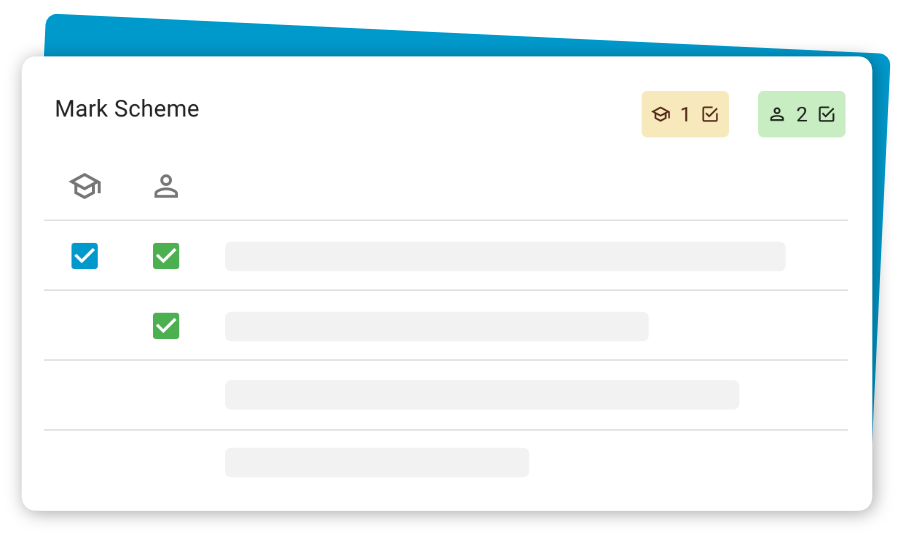
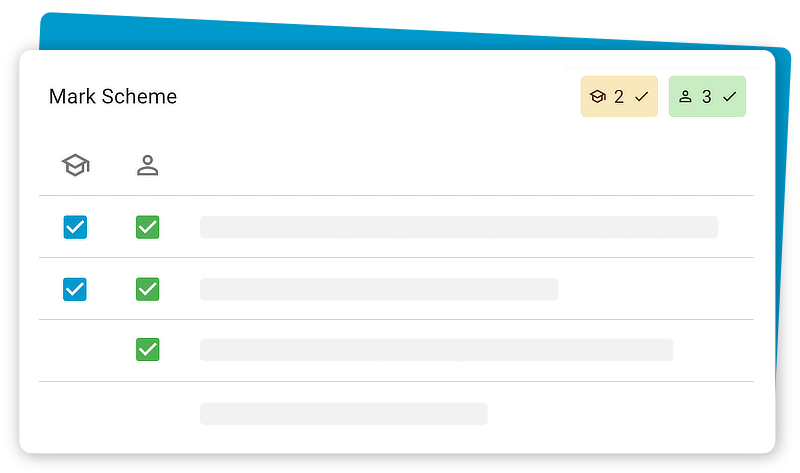
Tweaks + bugs

diff --git a/pages/report/_report.vue b/pages/report/_report.vue
@@ -127,84 +127,85 @@
         </v-toolbar>
         <v-container>
           <v-row id="div2">
-            <v-col cols="12" class="d-flex align-center">
-              <v-tooltip bottom>
-                <template #activator="{ on }">
-                  <v-btn icon @click="next(-1)" v-on="on">
-                    <v-icon>{{ $icons.mdiArrowLeft }}</v-icon>
-                  </v-btn>
-                </template>
-                <span>Previous</span>
-              </v-tooltip>
-              <v-tooltip bottom>
-                <template #activator="{ on }">
-                  <v-btn icon @click="next(1)" v-on="on">
-                    <v-icon>{{ $icons.mdiArrowRight }}</v-icon>
-                  </v-btn>
-                </template>
-                <span>Next</span>
-              </v-tooltip>
-              <v-tooltip v-if="marking" bottom>
-                <template #activator="{ on }">
-                  <v-btn
-                    icon
-                    class="ml-2"
-                    :color="response.flagged ? 'accent' : ''"
-                    @click="flag()"
-                    v-on="on"
-                  >
-                    <v-icon>{{ $icons.mdiFlagOutline }}</v-icon>
-                  </v-btn>
-                </template>
-                <span>{{
-                  response.flagged ? 'Remove flag' : 'Flag response'
-                }}</span>
-              </v-tooltip>
-              <v-tooltip bottom>
-                <template #activator="{ on }">
-                  <v-btn
-                    icon
-                    class="ml-2"
-                    :color="response.repeat ? 'accent' : ''"
-                    @click="reassign()"
-                    v-on="on"
-                  >
-                    <v-icon>{{ $icons.mdiRepeat }}</v-icon>
-                  </v-btn>
-                </template>
-                <span>Reassign question</span>
-              </v-tooltip>
-              <the-info-dialog :response="response" />
-              <v-spacer />
-              <v-tooltip v-if="marking" bottom>
-                <template #activator="{ on }">
-                  <v-chip
-                    label
-                    :color="color(marks.length, question.maxMark)"
-                    class="mr-2"
-                    v-on="on"
-                  >
-                    <v-icon left>{{ $icons.mdiSchoolOutline }}</v-icon>
-                    {{ marks.length }}
-                    <v-icon right>{{ $icons.mdiCheck }}</v-icon>
-                  </v-chip>
-                </template>
-                <span>You</span>
-              </v-tooltip>
-              <v-tooltip v-if="marking" bottom>
-                <template #activator="{ on }">
-                  <v-chip
-                    label
-                    :color="color(response.sm.length, question.maxMark)"
-                    v-on="on"
-                  >
-                    <v-icon left>{{ $icons.mdiAccountOutline }}</v-icon>
-                    {{ response.sm.length }}
-                    <v-icon right>{{ $icons.mdiCheck }}</v-icon>
-                  </v-chip>
-                </template>
-                <span>Student</span>
-              </v-tooltip>
+            <v-col cols="12" class="d-flex align-center justify-space-between">
+              <div>
+                <v-tooltip bottom>
+                  <template #activator="{ on }">
+                    <v-btn icon @click="next(-1)" v-on="on">
+                      <v-icon>{{ $icons.mdiArrowLeft }}</v-icon>
+                    </v-btn>
+                  </template>
+                  <span>Previous</span>
+                </v-tooltip>
+                <v-tooltip bottom>
+                  <template #activator="{ on }">
+                    <v-btn icon @click="next(1)" v-on="on">
+                      <v-icon>{{ $icons.mdiArrowRight }}</v-icon>
+                    </v-btn>
+                  </template>
+                  <span>Next</span>
+                </v-tooltip>
+                <v-tooltip v-if="marking" bottom>
+                  <template #activator="{ on }">
+                    <v-btn
+                      icon
+                      class="ml-2"
+                      :color="response.flagged ? 'accent' : ''"
+                      @click="flag()"
+                      v-on="on"
+                    >
+                      <v-icon>{{ $icons.mdiFlagOutline }}</v-icon>
+                    </v-btn>
+                  </template>
+                  <span>{{ response.flagged ? 'Remove flag' : 'Flag' }}</span>
+                </v-tooltip>
+                <v-tooltip bottom>
+                  <template #activator="{ on }">
+                    <v-btn
+                      icon
+                      class="ml-2"
+                      :color="response.repeat ? 'accent' : ''"
+                      @click="reassign()"
+                      v-on="on"
+                    >
+                      <v-icon>{{ $icons.mdiRepeat }}</v-icon>
+                    </v-btn>
+                  </template>
+                  <span>Reassign</span>
+                </v-tooltip>
+                <the-info-dialog :response="response" />
+              </div>
+              <div>
+                <v-tooltip v-if="marking" bottom>
+                  <template #activator="{ on }">
+                    <v-chip
+                      label
+                      :color="color(marks.length, question.maxMark)"
+                      class="mr-2"
+                      v-on="on"
+                    >
+                      <v-icon left>{{ $icons.mdiSchoolOutline }}</v-icon>
+                      {{ marks.length }}
+                      <v-icon right>{{ $icons.mdiCheck }}</v-icon>
+                    </v-chip>
+                  </template>
+                  <span>You</span>
+                </v-tooltip>
+                <v-tooltip v-if="marking" bottom>
+                  <template #activator="{ on }">
+                    <v-chip
+                      label
+                      :color="color(response.sm.length, question.maxMark)"
+                      v-on="on"
+                    >
+                      <v-icon left>{{ $icons.mdiAccountOutline }}</v-icon>
+                      {{ response.sm.length }}
+                      <v-icon right>{{ $icons.mdiCheck }}</v-icon>
+                    </v-chip>
+                  </template>
+                  <span>Student</span>
+                </v-tooltip>
+              </div>
             </v-col>
           </v-row>
           <v-row>
@@ -218,7 +219,7 @@
               </div>
             </v-col>
             <v-col cols="12" md="4">
-              <p v-if="marking" class="text-subtitle-1 font-weight-medium">
+              <p v-if="marking" class="text-subtitle-1">
                 {{ response.username }}
               </p>
               <p
@@ -229,9 +230,11 @@
               <p class="text-subtitle-1">Feedback</p>
               <!-- N.B. update is debounced method -->
               <v-textarea
+                id="feedback"
                 v-model="feedback"
                 outlined
                 rows="4"
+                hide-details
                 auto-grow
                 :append-icon="
                   savingFeedback
@@ -265,6 +268,7 @@
               >
                 <template #label>
                   <span
+                    class="text-body-2"
                     :class="
                       response.sm.includes(mp.id) ? 'font-weight-bold' : ''
                     "
@@ -273,18 +277,9 @@
                   </span>
                 </template>
               </v-checkbox>
-              <div class="d-flex justify-end">
-                <v-switch v-model="smartSort" inset hide-details>
-                  <template #label>
-                    <v-tooltip bottom>
-                      <template #activator="{ on }">
-                        <span v-on="on">Smart sort</span>
-                      </template>
-                      <span>Self marks first</span>
-                    </v-tooltip>
-                  </template>
-                </v-switch>
-              </div>
+              <v-switch v-model="smartSort" inset>
+                <template #label> Self marks first </template>
+              </v-switch>
               <p class="text-subtitle-1">Guidance</p>
               <p
                 v-if="question.guidance"
@@ -524,7 +519,7 @@ export default {
       try {
         await this.$store.dispatch('assignment/flagResponse')
         this.$snack.showMessage({
-          msg: this.response.flagged ? 'Flagged' : 'Flag removed',
+          msg: this.response.flagged ? 'Response flagged' : 'Flag removed',
         })
       } catch (err) {
         console.error(err)
@@ -622,8 +617,9 @@ div.v-list {
   border-bottom: 1px solid #e3dede !important;
 }
 
-.fix-width {
-  display: inline-block;
-  width: 60px;
+.v-textarea {
+  font-size: 0.875rem !important;
+  letter-spacing: 0.0178571429em !important;
+  line-height: 1.25rem !important;
 }
 </style>

diff --git a/pages/index.vue b/pages/index.vue
@@ -65,7 +65,7 @@
       <v-row class="d-flex align-center justify-center">
         <v-col cols="12" md="6" class="pad-r">
           <p class="text-h5 text-md-h4 font-weight-bold">
-            Spend less time marking
+            Mark more efficiently
           </p>
           <p class="text-body-1">
             Examgap makes marking more efficient. See responses side-by-side
@@ -800,13 +800,13 @@ export default {
 }
 
 .summary {
-  font-size: 1.3em !important;
+  font-size: 1.35em !important;
   letter-spacing: 0.0125em;
 }
 @media only screen and (max-width: 600px) {
   .summary {
-    font-size: 1em !important;
-    line-height: 1.5em;
+    font-size: 1.125em !important;
+    letter-spacing: 0.0125em;
   }
 }
 
@@ -818,13 +818,13 @@ export default {
 
 @media only screen and (min-width: 600px) {
   .pad-l {
-    padding-left: 5em;
+    padding-left: 7em;
   }
 }
 
 @media only screen and (min-width: 600px) {
   .pad-r {
-    padding-right: 5em;
+    padding-right: 7em;
   }
 }
 

diff --git a/pages/signup.vue b/pages/signup.vue
@@ -53,6 +53,7 @@
                           validate-on-blur
                           :rules="emailRules"
                           label="School email*"
+                          type="email"
                           placeholder="17bloggsj@yourschool.org.uk"
                           required
                         >

diff --git a/pages/group/_group.vue b/pages/group/_group.vue
@@ -191,7 +191,9 @@ export default {
   },
   async mounted() {
     this.$store.commit('app/setPageTitle', this.group.name)
+    console.log(`count =`, this.group.count)
     if (this.group.count === 0) {
+      console.log('tab was set')
       this.tab = 1
     }
     // Pre-fetch most recent assignment

diff --git a/pages/signin.vue b/pages/signin.vue
@@ -17,7 +17,7 @@
               :prepend-inner-icon="$icons.mdiAccountOutline"
               label="Username"
               color="primary"
-              type="text"
+              type="email"
               required
               outlined
               :rules="userRules"

diff --git a/nuxt.config.js b/nuxt.config.js
@@ -75,7 +75,7 @@ export default {
       themes: {
         light: {
           primary: '#0099cc',
-          accent: '#efb2b8',
+          accent: '#db5461', // Dark red
           secondary: '#e3f2fd',
           green: '#c9edc2', // Fix all chips?
         },

diff --git a/pages/feedback.vue b/pages/feedback.vue
@@ -105,7 +105,7 @@ export default {
           this.loading = false
           this.dialog = false
           this.$refs.form.reset()
-          this.$route.push('/home')
+          this.$router.push('/home')
         }
       }
     },

diff --git a/pages/trial.vue b/pages/trial.vue
@@ -35,6 +35,7 @@
                 outlined
                 :rules="emailRules"
                 label="Email*"
+                type="email"
                 required
               >
               </v-text-field>
